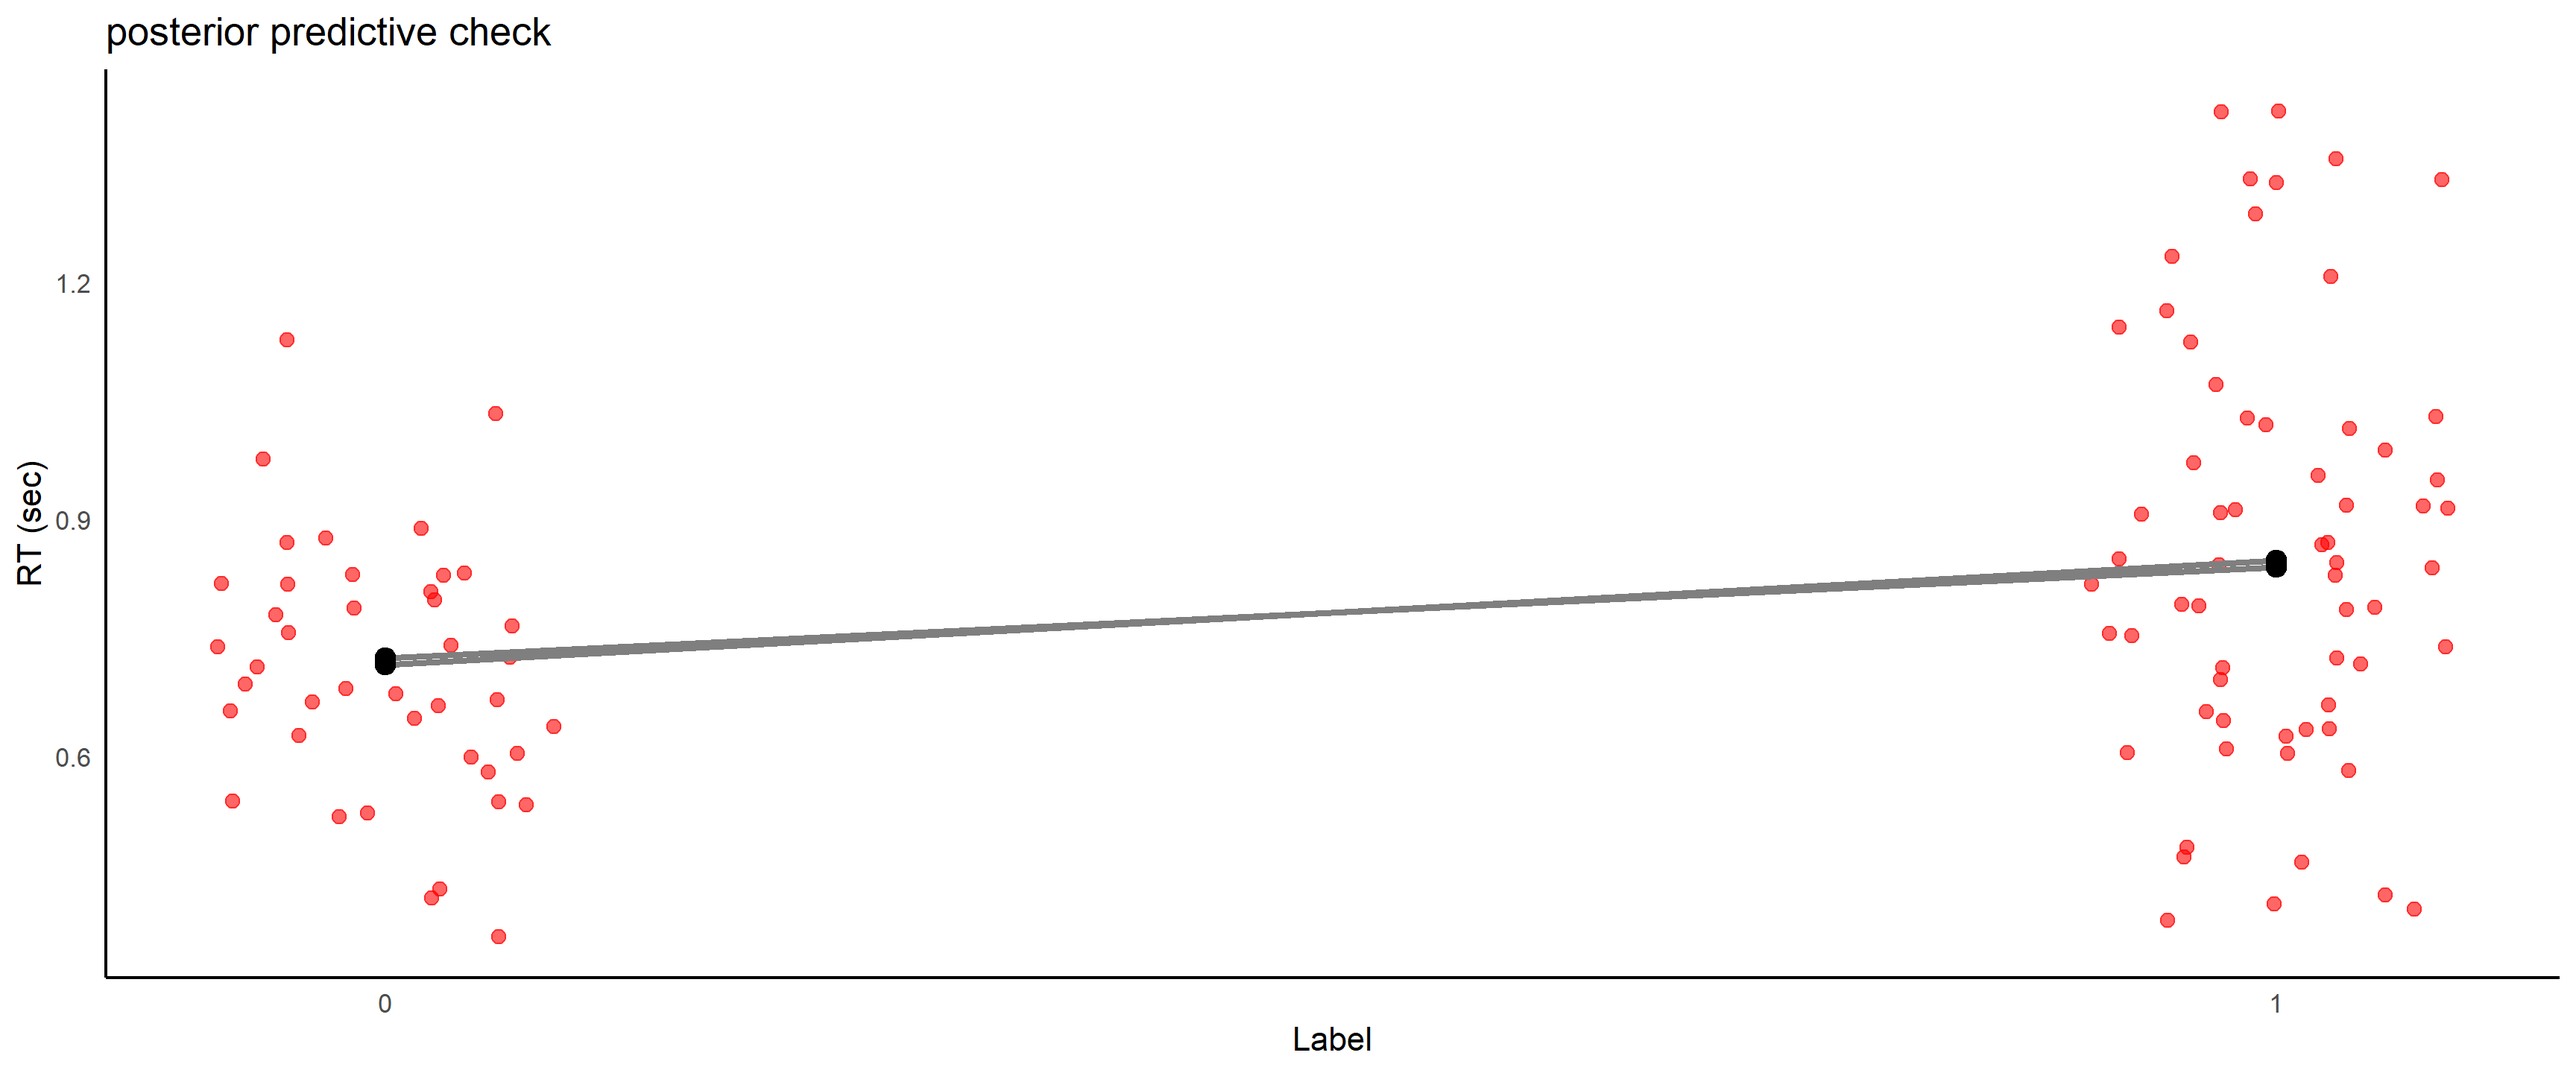
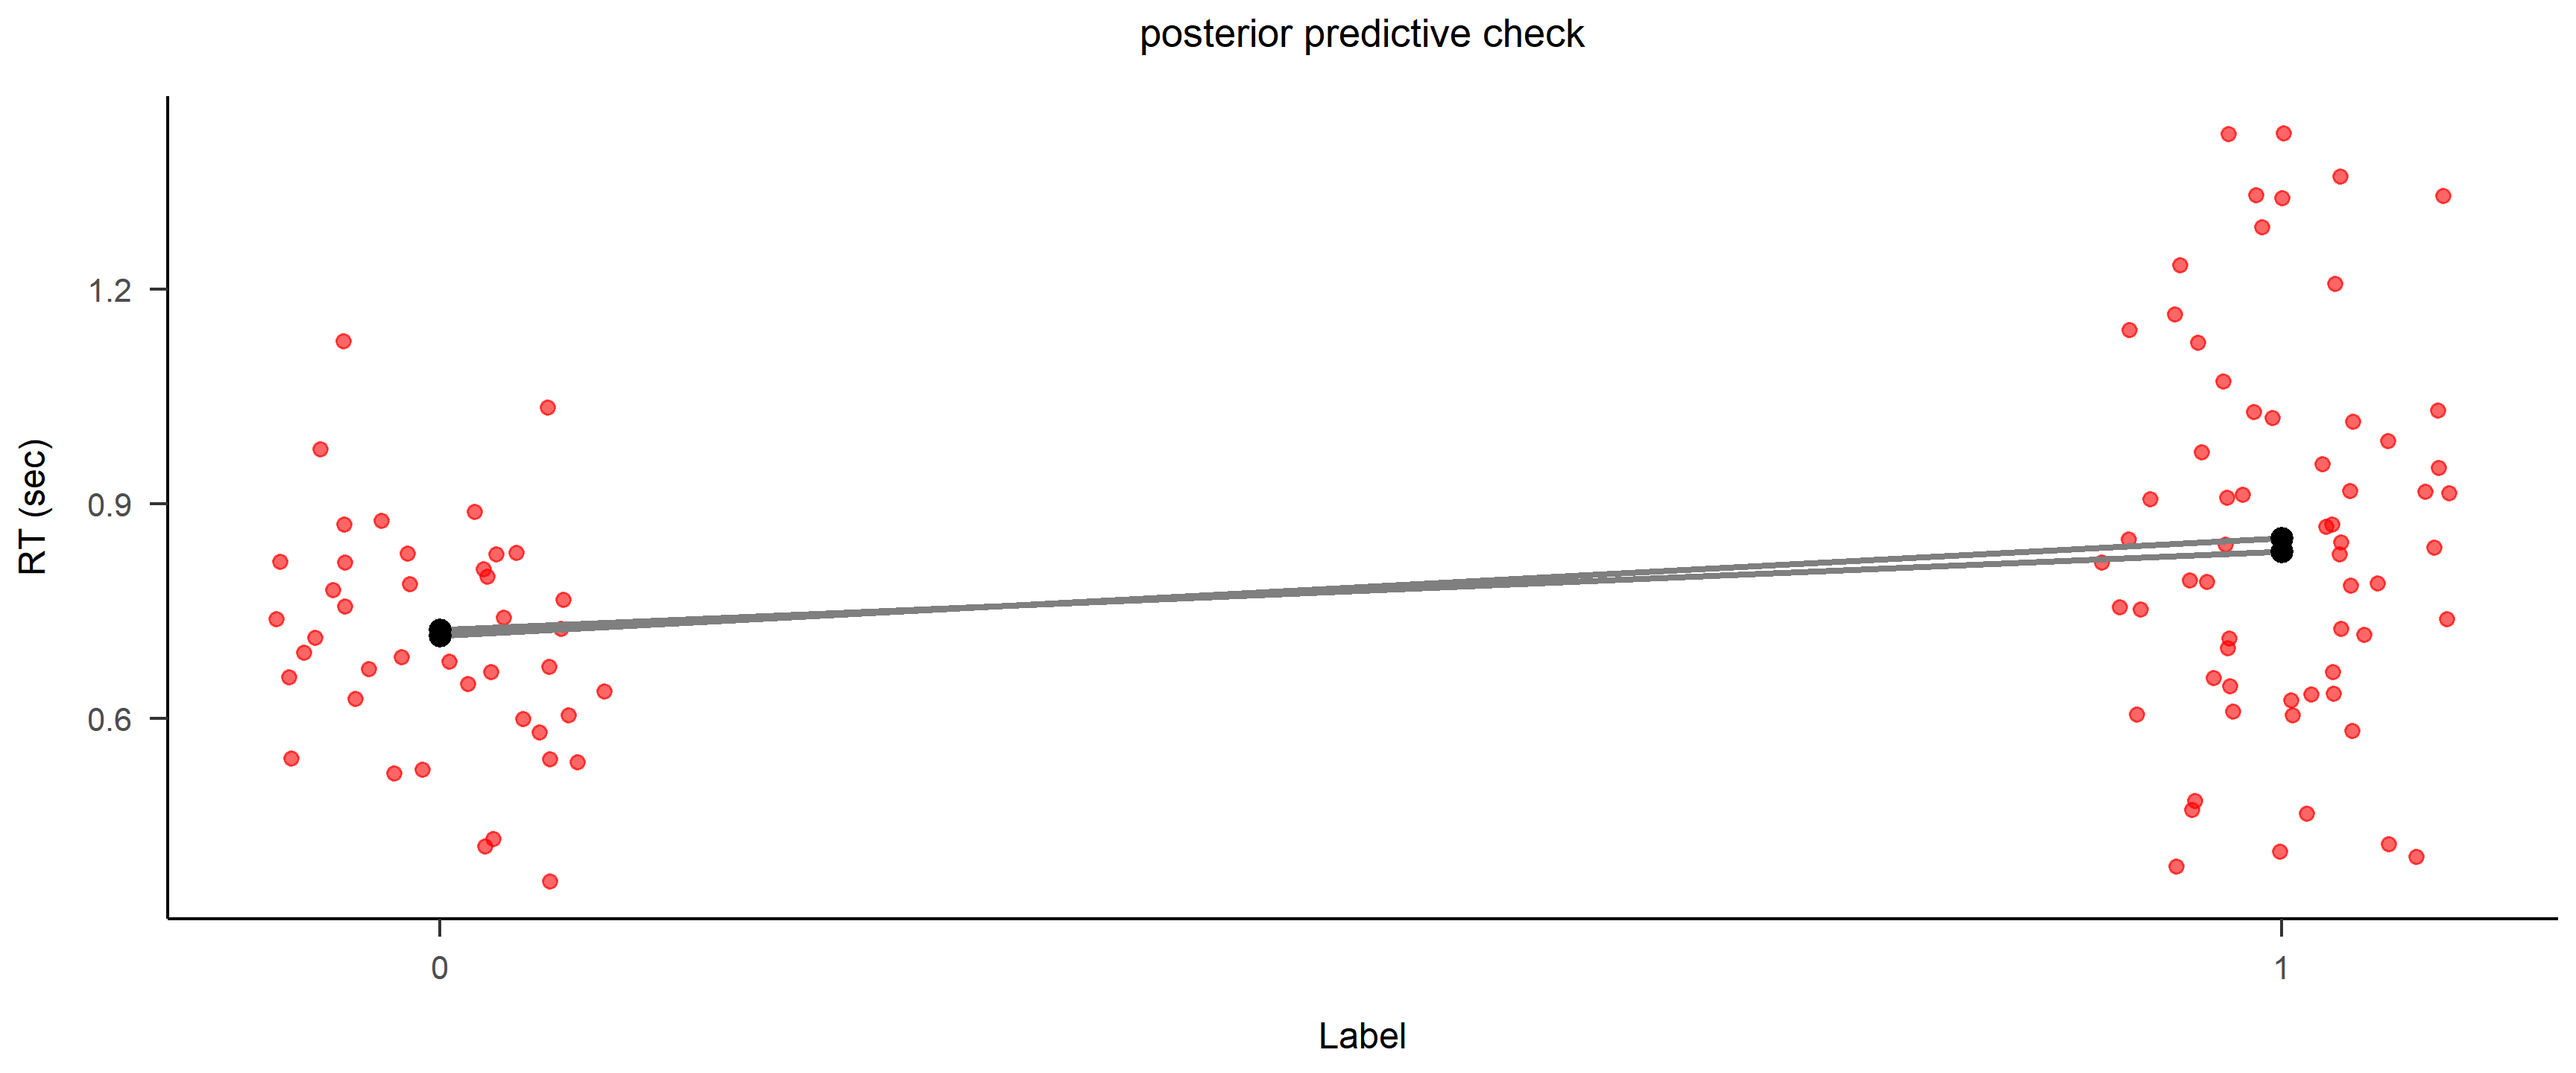
Revised Lec9
已将课件中4处没有使用APA格式绘图的代码进行修改。

diff --git a/lec9.html b/lec9.html
@@ -814,7 +814,7 @@ Y_i \mid \beta_0, \beta_1, \sigma
 <span id="cb16-13"><a href="" aria-label="13"></a>  ggplot2<span class="sc">::</span><span class="fu">geom_point</span>(<span class="at">color =</span> <span class="st">"black"</span>, <span class="at">size =</span> <span class="dv">3</span>) <span class="sc">+</span>      <span class="co"># 添加数据点</span></span>
 <span id="cb16-14"><a href="" aria-label="14"></a>  ggplot2<span class="sc">::</span><span class="fu">xlab</span>(<span class="st">"Label Condition"</span>) <span class="sc">+</span>                   <span class="co"># x轴标签</span></span>
 <span id="cb16-15"><a href="" aria-label="15"></a>  ggplot2<span class="sc">::</span><span class="fu">ylab</span>(<span class="st">"RT (sec)"</span>) <span class="sc">+</span>                          <span class="co"># y轴标签</span></span>
-<span id="cb16-16"><a href="" aria-label="16"></a>  ggplot2<span class="sc">::</span><span class="fu">theme_minimal</span>() <span class="sc">+</span></span>
+<span id="cb16-16"><a href="" aria-label="16"></a>  papaja<span class="sc">::</span><span class="fu">theme_apa</span>() <span class="sc">+</span></span>
 <span id="cb16-17"><a href="" aria-label="17"></a>  <span class="co"># 移除顶部和右侧边框（模拟sns.despine效果）</span></span>
 <span id="cb16-18"><a href="" aria-label="18"></a>  <span class="fu">theme</span>(</span>
 <span id="cb16-19"><a href="" aria-label="19"></a>    <span class="at">panel.grid.minor =</span> <span class="fu">element_blank</span>(),</span>
@@ -1149,7 +1149,7 @@ beta0 0.71       0 0.04 0.64 0.69 0.71 0.74  0.78  1846    1
 beta1 0.15       0 0.05 0.06 0.12 0.15 0.18  0.24  1776    1
 sigma 0.23       0 0.02 0.20 0.22 0.23 0.24  0.27  2550    1
 
-Samples were drawn using NUTS(diag_e) at Tue Nov  3 15:41:30 2026.
+Samples were drawn using NUTS(diag_e) at Thu Nov  5 11:56:26 2026.
 For each parameter, n_eff is a crude measure of effective sample size,
 and Rhat is the potential scale reduction factor on split chains (at 
 convergence, Rhat=1).</code></pre>
@@ -1223,17 +1223,17 @@ convergence, Rhat=1).</code></pre>
 </details>
 <div class="cell-output cell-output-stdout">
 <pre><code>List of 6
- $ beta0  : num [1:4000(1d)] 0.716 0.725 0.663 0.74 0.667 ...
+ $ beta0  : num [1:4000(1d)] 0.724 0.716 0.766 0.739 0.683 ...
   ..- attr(*, "dimnames")=List of 1
- $ beta1  : num [1:4000(1d)] 0.132 0.115 0.211 0.101 0.179 ...
+ $ beta1  : num [1:4000(1d)] 0.109 0.136 0.108 0.105 0.209 ...
   ..- attr(*, "dimnames")=List of 1
- $ sigma  : num [1:4000(1d)] 0.214 0.203 0.208 0.216 0.222 ...
+ $ sigma  : num [1:4000(1d)] 0.218 0.26 0.236 0.228 0.245 ...
   ..- attr(*, "dimnames")=List of 1
- $ y_rep  : num [1:4000, 1:105] 1.023 0.618 1.226 1.034 0.622 ...
+ $ y_rep  : num [1:4000, 1:105] 0.931 0.76 0.894 1.102 1.362 ...
   ..- attr(*, "dimnames")=List of 2
- $ log_lik: num [1:4000, 1:105] 0.523 0.583 0.482 0.529 0.5 ...
+ $ log_lik: num [1:4000, 1:105] 0.536 0.357 0.396 0.48 0.328 ...
   ..- attr(*, "dimnames")=List of 2
- $ lp__   : num [1:4000(1d)] 98.8 97.4 97.1 98.4 98.2 ...
+ $ lp__   : num [1:4000(1d)] 98.6 97.7 98 98.9 98 ...
   ..- attr(*, "dimnames")=List of 1</code></pre>
 </div>
 </div>
@@ -1256,8 +1256,8 @@ convergence, Rhat=1).</code></pre>
 <div class="code-copy-outer-scaffold"><div class="sourceCode cell-code" id="cb31"><pre class="sourceCode numberSource r number-lines code-with-copy"><code class="sourceCode r"><span id="cb31-1"><a href="" aria-label="1"></a><span class="fu">print</span>(<span class="fu">head</span>(beta0_posterior, <span class="dv">10</span>))</span></code></pre></div><button title="Copy to Clipboard" class="code-copy-button"><i class="bi"></i></button></div>
 </details>
 <div class="cell-output cell-output-stdout">
-<pre><code> [1] 0.7162317 0.7248332 0.6629528 0.7402238 0.6665294 0.7092868 0.6556285
- [8] 0.7033530 0.6342100 0.6553220</code></pre>
+<pre><code> [1] 0.7243245 0.7155829 0.7657383 0.7393627 0.6825483 0.7017431 0.6787730
+ [8] 0.6911449 0.6630137 0.7580280</code></pre>
 </div>
 </div>
 </section>
@@ -1273,7 +1273,7 @@ convergence, Rhat=1).</code></pre>
 <span id="cb33-4"><a href="" aria-label="4"></a><span class="fu">cat</span>(<span class="fu">sprintf</span>(<span class="st">"第1条链的第11个beta_0样本值：%.4f</span><span class="sc">\n</span><span class="st">"</span>, chain1_sample11))</span></code></pre></div><button title="Copy to Clipboard" class="code-copy-button"><i class="bi"></i></button></div>
 </details>
 <div class="cell-output cell-output-stdout">
-<pre><code>第1条链的第11个beta_0样本值：0.7332</code></pre>
+<pre><code>第1条链的第11个beta_0样本值：0.6984</code></pre>
 </div>
 </div>
 </section>
@@ -1409,12 +1409,12 @@ sigma 0.2427158 0.2674511 2549.577 0.9994324</code></pre>
 </details>
 <div class="cell-output cell-output-stdout">
 <pre><code>      beta0     beta1     sigma
-1 0.7162317 0.1318030 0.2143290
-2 0.7248332 0.1148239 0.2033105
-3 0.6629528 0.2105684 0.2083594
-4 0.7402238 0.1014439 0.2160077
-5 0.6665294 0.1793058 0.2216580
-6 0.7092868 0.1464458 0.2155635</code></pre>
+1 0.7243245 0.1094948 0.2177890
+2 0.7155829 0.1363211 0.2596285
+3 0.7657383 0.1078752 0.2355483
+4 0.7393627 0.1049160 0.2278620
+5 0.6825483 0.2086599 0.2452784
+6 0.7017431 0.1729080 0.2338368</code></pre>
 </div>
 </div>
 </section>
@@ -1487,7 +1487,7 @@ sigma 0.2427158 0.2674511 2549.577 0.9994324</code></pre>
 <span id="cb46-25"><a href="" aria-label="25"></a>    <span class="at">linetype =</span> <span class="fu">c</span>(<span class="dv">0</span>, <span class="dv">1</span>, <span class="dv">0</span>)</span>
 <span id="cb46-26"><a href="" aria-label="26"></a>  ))) <span class="sc">+</span></span>
 <span id="cb46-27"><a href="" aria-label="27"></a>  <span class="co"># 美化主题</span></span>
-<span id="cb46-28"><a href="" aria-label="28"></a>  <span class="fu">theme_minimal</span>() <span class="sc">+</span></span>
+<span id="cb46-28"><a href="" aria-label="28"></a>  papaja<span class="sc">::</span><span class="fu">theme_apa</span>() <span class="sc">+</span></span>
 <span id="cb46-29"><a href="" aria-label="29"></a>  <span class="fu">theme</span>(</span>
 <span id="cb46-30"><a href="" aria-label="30"></a>    <span class="at">panel.grid =</span> <span class="fu">element_blank</span>(),</span>
 <span id="cb46-31"><a href="" aria-label="31"></a>    <span class="at">axis.line =</span> <span class="fu">element_line</span>(<span class="at">color =</span> <span class="st">"black"</span>),</span>
@@ -1607,7 +1607,7 @@ sigma 0.2427158 0.2674511 2549.577 0.9994324</code></pre>
 <span id="cb49-29"><a href="" aria-label="29"></a>                        ))</span>
 <span id="cb49-30"><a href="" aria-label="30"></a>  ) <span class="sc">+</span></span>
 <span id="cb49-31"><a href="" aria-label="31"></a>  <span class="co"># 主题设置</span></span>
-<span id="cb49-32"><a href="" aria-label="32"></a>  <span class="fu">theme_minimal</span>() <span class="sc">+</span></span>
+<span id="cb49-32"><a href="" aria-label="32"></a>  papaja<span class="sc">::</span><span class="fu">theme_apa</span>() <span class="sc">+</span></span>
 <span id="cb49-33"><a href="" aria-label="33"></a>  <span class="fu">theme</span>(</span>
 <span id="cb49-34"><a href="" aria-label="34"></a>    <span class="at">panel.grid =</span> <span class="fu">element_blank</span>(),</span>
 <span id="cb49-35"><a href="" aria-label="35"></a>    <span class="at">axis.line =</span> <span class="fu">element_line</span>(<span class="at">color =</span> <span class="st">"black"</span>),</span>
@@ -1712,7 +1712,7 @@ Y_{\text{new}}^{(i)} = \mu^{(i)} + \epsilon^{(i)}, \quad \epsilon^{(i)} \sim \ma
 <span id="cb51-13"><a href="" aria-label="13"></a><span class="fu">cat</span>(<span class="fu">sprintf</span>(<span class="st">"mu_i: %.2f, 预测值：%.2f</span><span class="sc">\n</span><span class="st">"</span>, mu_i, prediction_i))</span></code></pre></div><button title="Copy to Clipboard" class="code-copy-button"><i class="bi"></i></button></div>
 </details>
 <div class="cell-output cell-output-stdout">
-<pre><code>mu_i: 0.85, 预测值：0.75</code></pre>
+<pre><code>mu_i: 0.83, 预测值：0.73</code></pre>
 </div>
 </div>
 </section>
@@ -1758,12 +1758,12 @@ Y_{\text{new}}^{(i)} = \mu^{(i)} + \epsilon^{(i)}, \quad \epsilon^{(i)} \sim \ma
 </details>
 <div class="cell-output cell-output-stdout">
 <pre><code>      beta0     beta1     sigma        mu     y_new
-1 0.7162317 0.1318030 0.2143290 0.8480347 0.9910420
-2 0.7248332 0.1148239 0.2033105 0.8396571 0.8144791
-3 0.6629528 0.2105684 0.2083594 0.8735212 1.0362223
-4 0.7402238 0.1014439 0.2160077 0.8416678 0.8928439
-5 0.6665294 0.1793058 0.2216580 0.8458352 1.0223882
-6 0.7092868 0.1464458 0.2155635 0.8557326 1.1970230</code></pre>
+1 0.7243245 0.1094948 0.2177890 0.8338193 0.9791353
+2 0.7155829 0.1363211 0.2596285 0.8519040 0.8197516
+3 0.7657383 0.1078752 0.2355483 0.8736134 1.0575455
+4 0.7393627 0.1049160 0.2278620 0.8442787 0.8982634
+5 0.6825483 0.2086599 0.2452784 0.8912082 1.0865751
+6 0.7017431 0.1729080 0.2338368 0.8746511 1.2448726</code></pre>
 </div>
 </div>
 </section>
@@ -1830,7 +1830,7 @@ Y_{\text{new}}^{(i)} = \mu^{(i)} + \epsilon^{(i)}, \quad \epsilon^{(i)} \sim \ma
 <span id="cb59-20"><a href="" aria-label="20"></a>  <span class="fu">ggtitle</span>(<span class="st">"mu distribution"</span>) <span class="sc">+</span></span>
 <span id="cb59-21"><a href="" aria-label="21"></a>  <span class="fu">xlab</span>(<span class="st">"Value"</span>) <span class="sc">+</span></span>
 <span id="cb59-22"><a href="" aria-label="22"></a>  <span class="fu">ylab</span>(<span class="st">"Density"</span>) <span class="sc">+</span></span>
-<span id="cb59-23"><a href="" aria-label="23"></a>  <span class="fu">theme_minimal</span>() <span class="sc">+</span></span>
+<span id="cb59-23"><a href="" aria-label="23"></a>  papaja<span class="sc">::</span><span class="fu">theme_apa</span>() <span class="sc">+</span></span>
 <span id="cb59-24"><a href="" aria-label="24"></a>  <span class="fu">theme</span>(</span>
 <span id="cb59-25"><a href="" aria-label="25"></a>    <span class="at">plot.title =</span> <span class="fu">element_text</span>(<span class="at">hjust =</span> <span class="fl">0.5</span>),</span>
 <span id="cb59-26"><a href="" aria-label="26"></a>    <span class="at">panel.grid =</span> <span class="fu">element_blank</span>(),</span>
@@ -1845,7 +1845,7 @@ Y_{\text{new}}^{(i)} = \mu^{(i)} + \epsilon^{(i)}, \quad \epsilon^{(i)} \sim \ma
 <span id="cb59-35"><a href="" aria-label="35"></a>  <span class="fu">ggtitle</span>(<span class="st">"y_new distribution"</span>) <span class="sc">+</span></span>
 <span id="cb59-36"><a href="" aria-label="36"></a>  <span class="fu">xlab</span>(<span class="st">"Value"</span>) <span class="sc">+</span></span>
 <span id="cb59-37"><a href="" aria-label="37"></a>  <span class="fu">ylab</span>(<span class="st">"Density"</span>) <span class="sc">+</span></span>
-<span id="cb59-38"><a href="" aria-label="38"></a>  <span class="fu">theme_minimal</span>() <span class="sc">+</span></span>
+<span id="cb59-38"><a href="" aria-label="38"></a>  papaja<span class="sc">::</span><span class="fu">theme_apa</span>() <span class="sc">+</span></span>
 <span id="cb59-39"><a href="" aria-label="39"></a>  <span class="fu">theme</span>(</span>
 <span id="cb59-40"><a href="" aria-label="40"></a>    <span class="at">plot.title =</span> <span class="fu">element_text</span>(<span class="at">hjust =</span> <span class="fl">0.5</span>),</span>
 <span id="cb59-41"><a href="" aria-label="41"></a>    <span class="at">panel.grid =</span> <span class="fu">element_blank</span>(),</span>
@@ -1904,11 +1904,11 @@ Y_{\text{new}}^{(i)} = \mu^{(i)} + \epsilon^{(i)}, \quad \epsilon^{(i)} \sim \ma
 <div class="cell-output cell-output-stdout">
 <pre><code>          
 iterations      [,1]      [,2]      [,3]      [,4]      [,5]
-      [1,] 1.0230093 0.7709149 0.7815701 0.4098067 0.4197748
-      [2,] 0.6183617 1.0888935 1.0154343 1.0502469 0.7766278
-      [3,] 1.2257384 1.2489554 0.5698926 0.8345012 0.8473553
-      [4,] 1.0339368 0.9258788 0.9323376 1.0015631 0.6436045
-      [5,] 0.6219857 0.9568263 0.6178388 1.1039633 0.8197403</code></pre>
+      [1,] 0.9314726 0.7471065 0.8373153 0.8288157 0.9293736
+      [2,] 0.7602357 0.8064175 0.7176407 0.5753941 1.0775999
+      [3,] 0.8941972 0.9617769 0.6133464 0.9906701 0.3913702
+      [4,] 1.1024594 1.1114890 0.8710940 0.9138421 0.9017630
+      [5,] 1.3620915 0.9273759 0.4802112 0.9029067 0.9702491</code></pre>
 </div>
 </div>
 </section>

diff --git a/lec9.py b/lec9.py
@@ -2,6 +2,9 @@
 import pymc as pm
 import arviz as az
 import seaborn as sns
+sns.set_theme(style="white", rc={"axes.spines.top": False,
+                                 "axes.spines.right": False,
+                                 "axes.edgecolor": "black"})
 import scipy.stats as st
 import numpy as np
 import matplotlib.pyplot as plt
